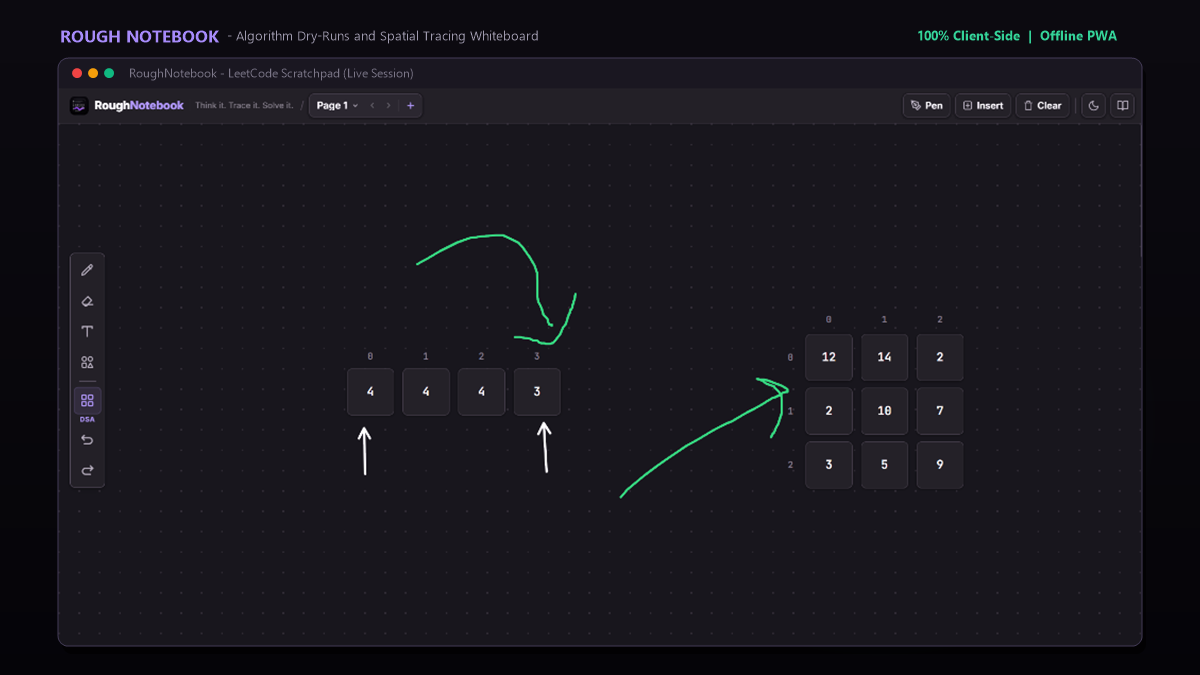
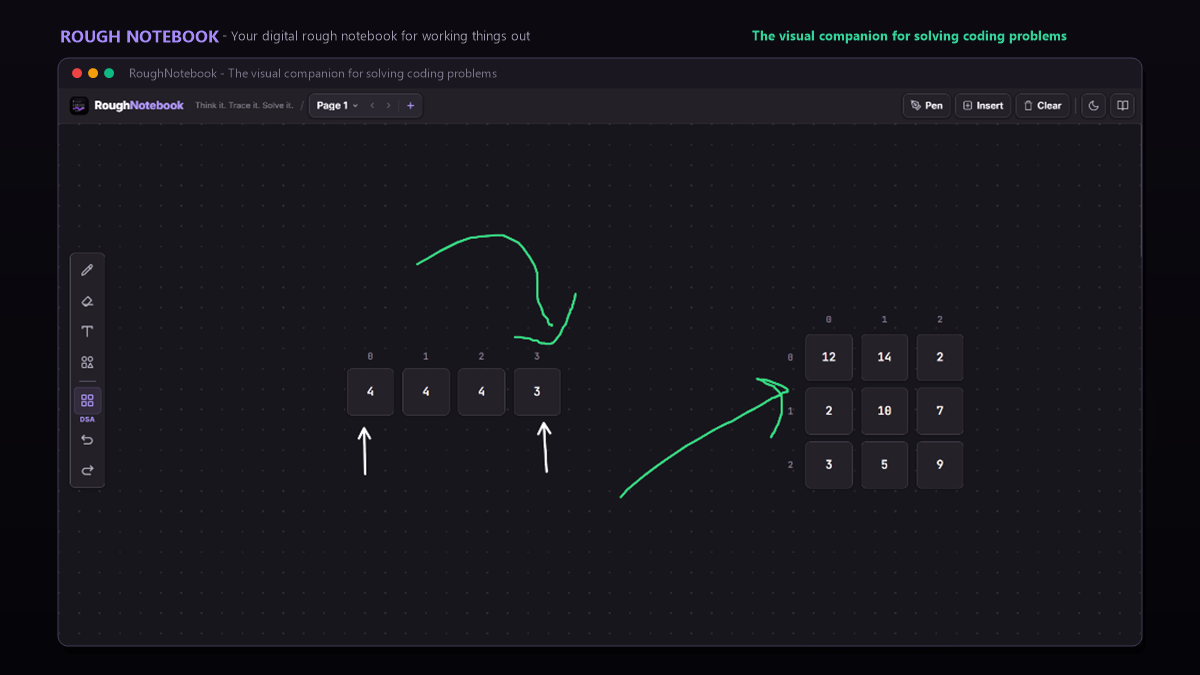
docs: establish two-tier positioning as digital rough notebook and visual coding companion

Changed region(s): [[0.6167, 0.0311, 0.925, 0.0622], [0.185, 0.0311, 0.4625, 0.0622], [0.185, 0.0933, 0.4008, 0.1244]]

diff --git a/index.html b/index.html
@@ -5,14 +5,14 @@
     <meta name="viewport" content="width=device-width, initial-scale=1.0" />
     <meta name="color-scheme" content="light dark" />
 
-    <title>Rough Notebook — Your Digital Rough Notebook for Coding Problems</title>
+    <title>Rough Notebook — Your Digital Rough Notebook for Working Things Out</title>
     <meta
       name="description"
-      content="Rough Notebook is your free digital rough notebook for working things out. Sketch ideas, trace arrays and pointers, and solve coding problems visually alongside LeetCode, HackerRank, Codeforces, NeetCode, and all practice platforms."
+      content="Rough Notebook is your free digital rough notebook for working things out — the visual companion for solving coding problems. Sketch ideas, trace arrays and pointers, and dry-run algorithms alongside LeetCode, HackerRank, and Codeforces."
     />
     <meta
       name="keywords"
-      content="digital rough notebook, rough notebook, LeetCode scratchpad, HackerRank whiteboard, NeetCode companion, Codeforces scratchpad, coding problem scratchpad, DSA dry run tool, array dry run, pointer visualization, algorithm practice rough sheet"
+      content="digital rough notebook, rough notebook, coding companion, LeetCode scratchpad, HackerRank whiteboard, NeetCode companion, Codeforces scratchpad, coding problem scratchpad, DSA dry run tool, array dry run, pointer visualization, algorithm practice rough sheet"
     />
     <meta name="author" content="Shambhoo Narwaria" />
     <meta name="robots" content="index, follow, max-image-preview:large, max-snippet:-1, max-video-preview:-1" />
@@ -29,17 +29,17 @@
     <meta property="og:type" content="website" />
     <meta property="og:site_name" content="Rough Notebook" />
     <meta property="og:url" content="https://shambhoo-narwaria.github.io/Rough-Notebook/" />
-    <meta property="og:title" content="Rough Notebook — Your Digital Rough Notebook for Coding Problems" />
+    <meta property="og:title" content="Rough Notebook — Your Digital Rough Notebook for Working Things Out" />
     <meta
       property="og:description"
-      content="Your digital rough notebook for working things out. Sketch ideas, trace arrays and pointers, and solve coding problems visually alongside LeetCode, HackerRank, Codeforces, and more."
+      content="Your digital rough notebook for working things out — the visual companion for solving coding problems. Sketch ideas, trace arrays and pointers, and solve coding problems visually."
     />
     <meta property="og:image" content="https://shambhoo-narwaria.github.io/Rough-Notebook/og.png" />
     <meta property="og:image:secure_url" content="https://shambhoo-narwaria.github.io/Rough-Notebook/og.png" />
     <meta property="og:image:type" content="image/png" />
     <meta property="og:image:width" content="1200" />
     <meta property="og:image:height" content="675" />
-    <meta property="og:image:alt" content="Rough Notebook — Your Digital Rough Notebook for Coding Problems" />
+    <meta property="og:image:alt" content="Rough Notebook — Your Digital Rough Notebook for Working Things Out" />
     <meta property="og:locale" content="en_US" />
 
     <meta name="twitter:card" content="summary_large_image" />
@@ -47,7 +47,7 @@
     <meta name="twitter:title" content="Rough Notebook — Your Digital Rough Notebook for Working Things Out" />
     <meta
       name="twitter:description"
-      content="Your digital rough notebook for working things out. Sketch ideas, trace arrays and pointers, and solve coding problems visually alongside LeetCode, HackerRank, Codeforces, and more."
+      content="Your digital rough notebook for working things out — the visual companion for solving coding problems. Sketch ideas, trace arrays and pointers, and solve coding problems visually."
     />
     <meta name="twitter:image" content="https://shambhoo-narwaria.github.io/Rough-Notebook/og.png" />
     <meta name="twitter:image:alt" content="Rough Notebook — Your Digital Rough Notebook for Working Things Out" />
@@ -69,7 +69,7 @@
             "@type": "WebSite",
             "url": "https://shambhoo-narwaria.github.io/Rough-Notebook/",
             "name": "Rough Notebook",
-            "description": "Your scratchpad for solving coding problems. Work through coding problems visually, sketch approaches, trace arrays and pointers, and step through DP tables before writing code.",
+            "description": "Your digital rough notebook for working things out — the visual companion for solving coding problems.",
             "inLanguage": "en"
           },
           {
@@ -89,7 +89,7 @@
               "name": "Shambhoo Narwaria",
               "url": "https://github.com/shambhoo-narwaria"
             },
-            "description": "Rough Notebook is your visual scratchpad for solving coding problems. Sketch your approach, test examples, trace arrays and pointers, and work through dynamic programming tables before writing code. Works alongside LeetCode, HackerRank, and Codeforces.",
+            "description": "Rough Notebook is your digital rough notebook for working things out — the visual companion for solving coding problems. Sketch approaches, trace arrays and pointers, and dry-run algorithms alongside LeetCode, HackerRank, and Codeforces.",
             "featureList": [
               "A digital rough page with pen, highlighter, eraser, and organic paper texture",
               "Sticky notes and checklists for edge cases and Big-O invariants",

diff --git a/src/components/modals/HelpModal.svelte b/src/components/modals/HelpModal.svelte
@@ -18,7 +18,7 @@
         </div>
         <div>
           <h2 id="help-title" class="help-title">Rough Notebook</h2>
-          <p class="help-subtitle">Your scratchpad for solving coding problems</p>
+          <p class="help-subtitle">The visual companion for solving coding problems</p>
         </div>
       </div>
       <button type="button" class="icon-btn-close" onclick={onClose} aria-label="Close dialog">

diff --git a/README.md b/README.md
@@ -1,6 +1,7 @@
 # Rough Notebook
 
-**Your digital rough notebook for working things out.**
+**Your digital rough notebook for working things out.**  
+*The visual companion for solving coding problems.*
 
 Work through notes, sketches, and coding problems visually. Sketch your approach, test examples, trace arrays and pointers, and work through dynamic programming tables before writing your solution.
 
